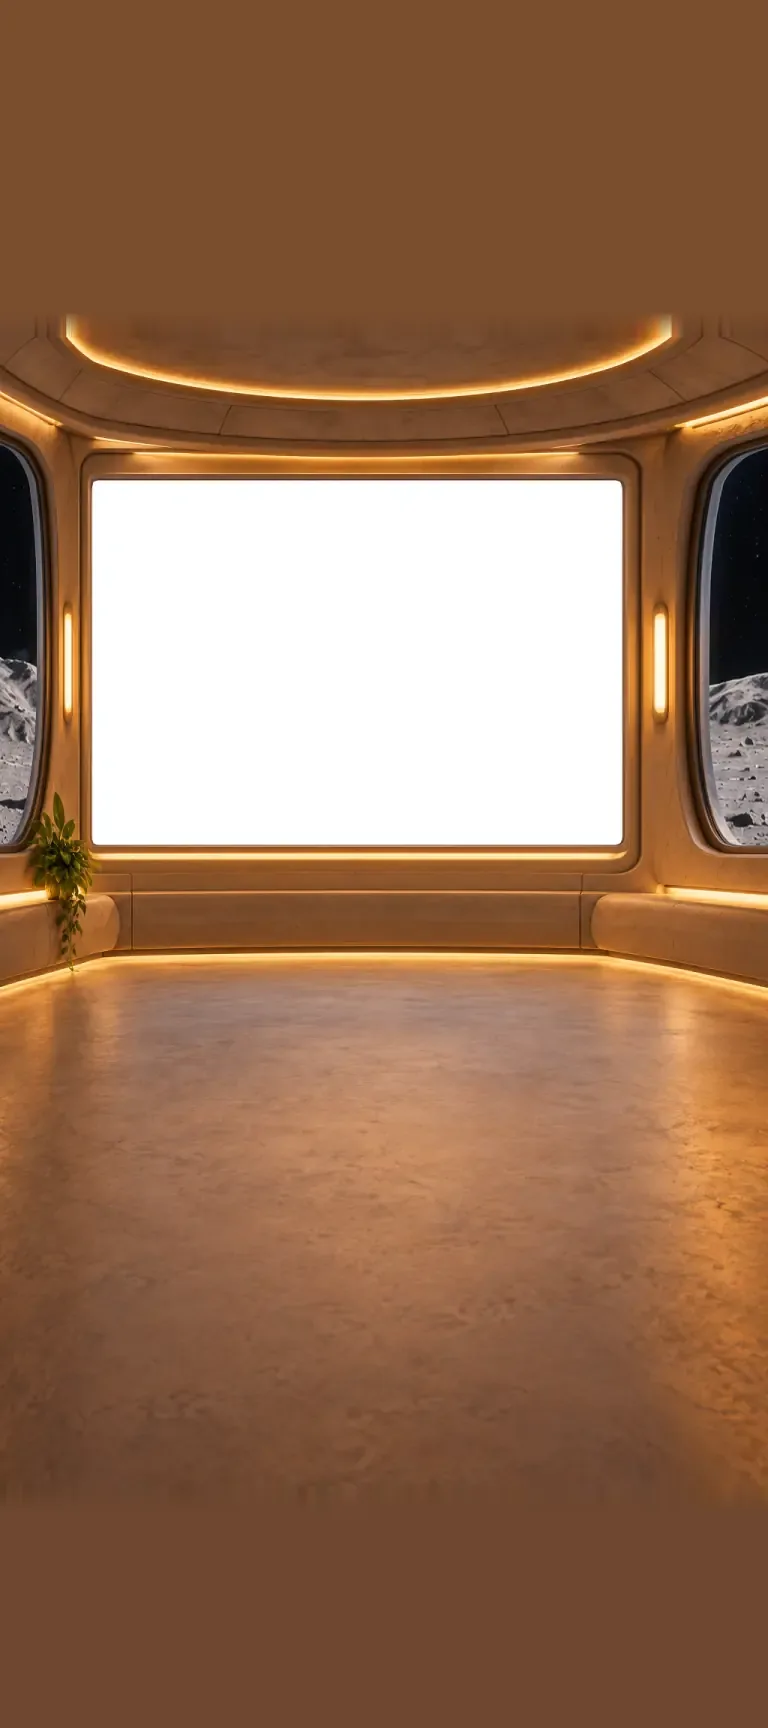
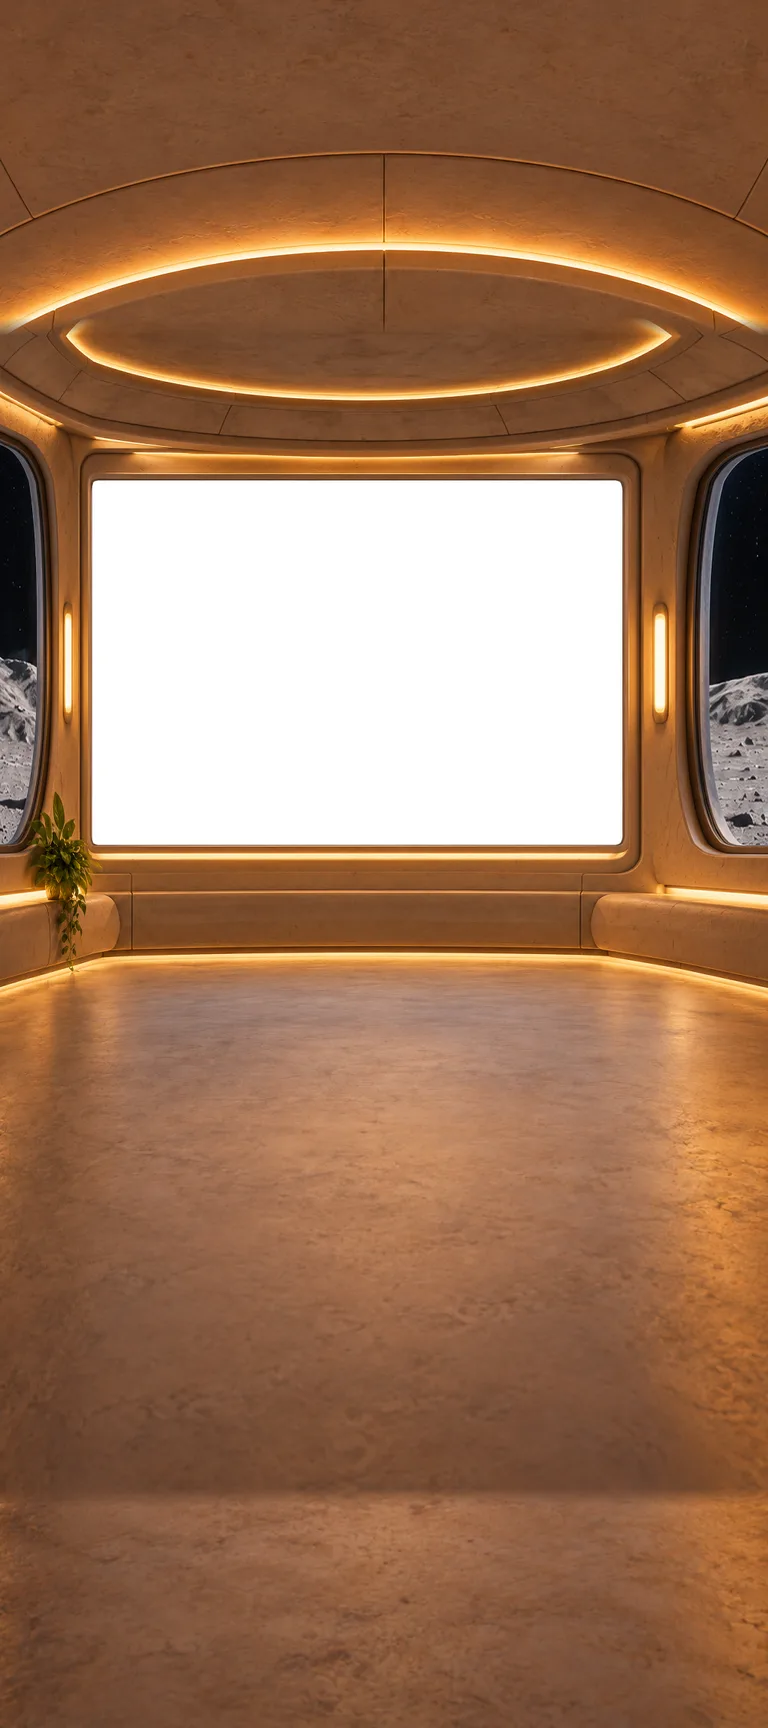
Swap the stopgap tall rooms and gyms for the painted Codex art [skip deploy]

Changed region(s): [[0.125, 0.8438, 1.0, 1.0], [0.0, 0.0938, 1.0, 0.2188]]

diff --git a/scripts/house-tall-art.py b/scripts/house-tall-art.py
@@ -1,0 +1,52 @@
+# Replaces the stopgap tall rooms and gyms (scripts/house-stopgap-tall.py) with the Codex art from
+# HANDOFF-codex-tall-rooms.md. The Codex files are 1024 by 2304 and live outside the repo, so a missing one is skipped.
+# The 06-gym-ladder spaceship, moon and mars are not the pictures the app ships, so those gyms come from 13-tall-app-gyms.
+# Run it with `python3 -I scripts/house-tall-art.py`.
+import os
+import subprocess
+import sys
+import tempfile
+
+from PIL import Image
+
+TALL_SIZE = (1024, 2304)
+APP_SIZE = (768, 1728)
+QUALITY = "82"
+
+root = os.path.abspath(os.path.join(os.path.dirname(__file__), ".."))
+art = os.path.expanduser("~/Documents/Codex/bebear-art")
+sources = {
+    "images/bear/house/room-trailer.webp": "12-tall-rooms/room-trailer.png",
+    "images/bear/house/room-apartment.webp": "12-tall-rooms/room-apartment.png",
+    "images/bear/house/room-loft.webp": "12-tall-rooms/room-loft.png",
+    "images/bear/house/room-mansion.webp": "12-tall-rooms/room-mansion.png",
+    "images/bear/house/room-spaceship.webp": "12-tall-rooms/room-spaceship.png",
+    "images/bear/house/room-moon.webp": "12-tall-rooms/room-moon.png",
+    "images/bear/house/room-mars.webp": "12-tall-rooms/room-mars.png",
+    "images/bear/gyms/trailer-park.webp": "12-tall-rooms/trailer-park.png",
+    "images/bear/gyms/discount-gym.webp": "12-tall-rooms/discount-gym.png",
+    "images/bear/gyms/luxury-club.webp": "12-tall-rooms/luxury-club.png",
+    "images/bear/gyms/mansion-gym.webp": "12-tall-rooms/mansion-gym.png",
+    "images/bear/gyms/spaceship.webp": "13-tall-app-gyms/spaceship.png",
+    "images/bear/gyms/moon.webp": "13-tall-app-gyms/moon.png",
+    "images/bear/gyms/mars.webp": "13-tall-app-gyms/mars.png",
+    "images/bear/gyms/bedroom.webp": "13-tall-app-gyms/bedroom.png",
+    "images/bear/gyms/garage.webp": "13-tall-app-gyms/garage.png",
+    "images/bear/gyms/pro.webp": "13-tall-app-gyms/pro.png",
+}
+
+with tempfile.TemporaryDirectory() as tmp:
+    for target, source in sources.items():
+        path = os.path.join(art, source)
+        if not os.path.exists(path):
+            print(f"skip {target}: no {source}")
+            continue
+        im = Image.open(path).convert("RGB")
+        if im.size != TALL_SIZE:
+            print(f"skip {target}: {source} is {im.size}")
+            continue
+        png = os.path.join(tmp, os.path.basename(path))
+        im.resize(APP_SIZE, Image.LANCZOS).save(png)
+        subprocess.run(["cwebp", "-quiet", "-q", QUALITY, png, "-o", os.path.join(root, target)], check=True)
+        print(f"replaced {target}")
+sys.exit(0)
